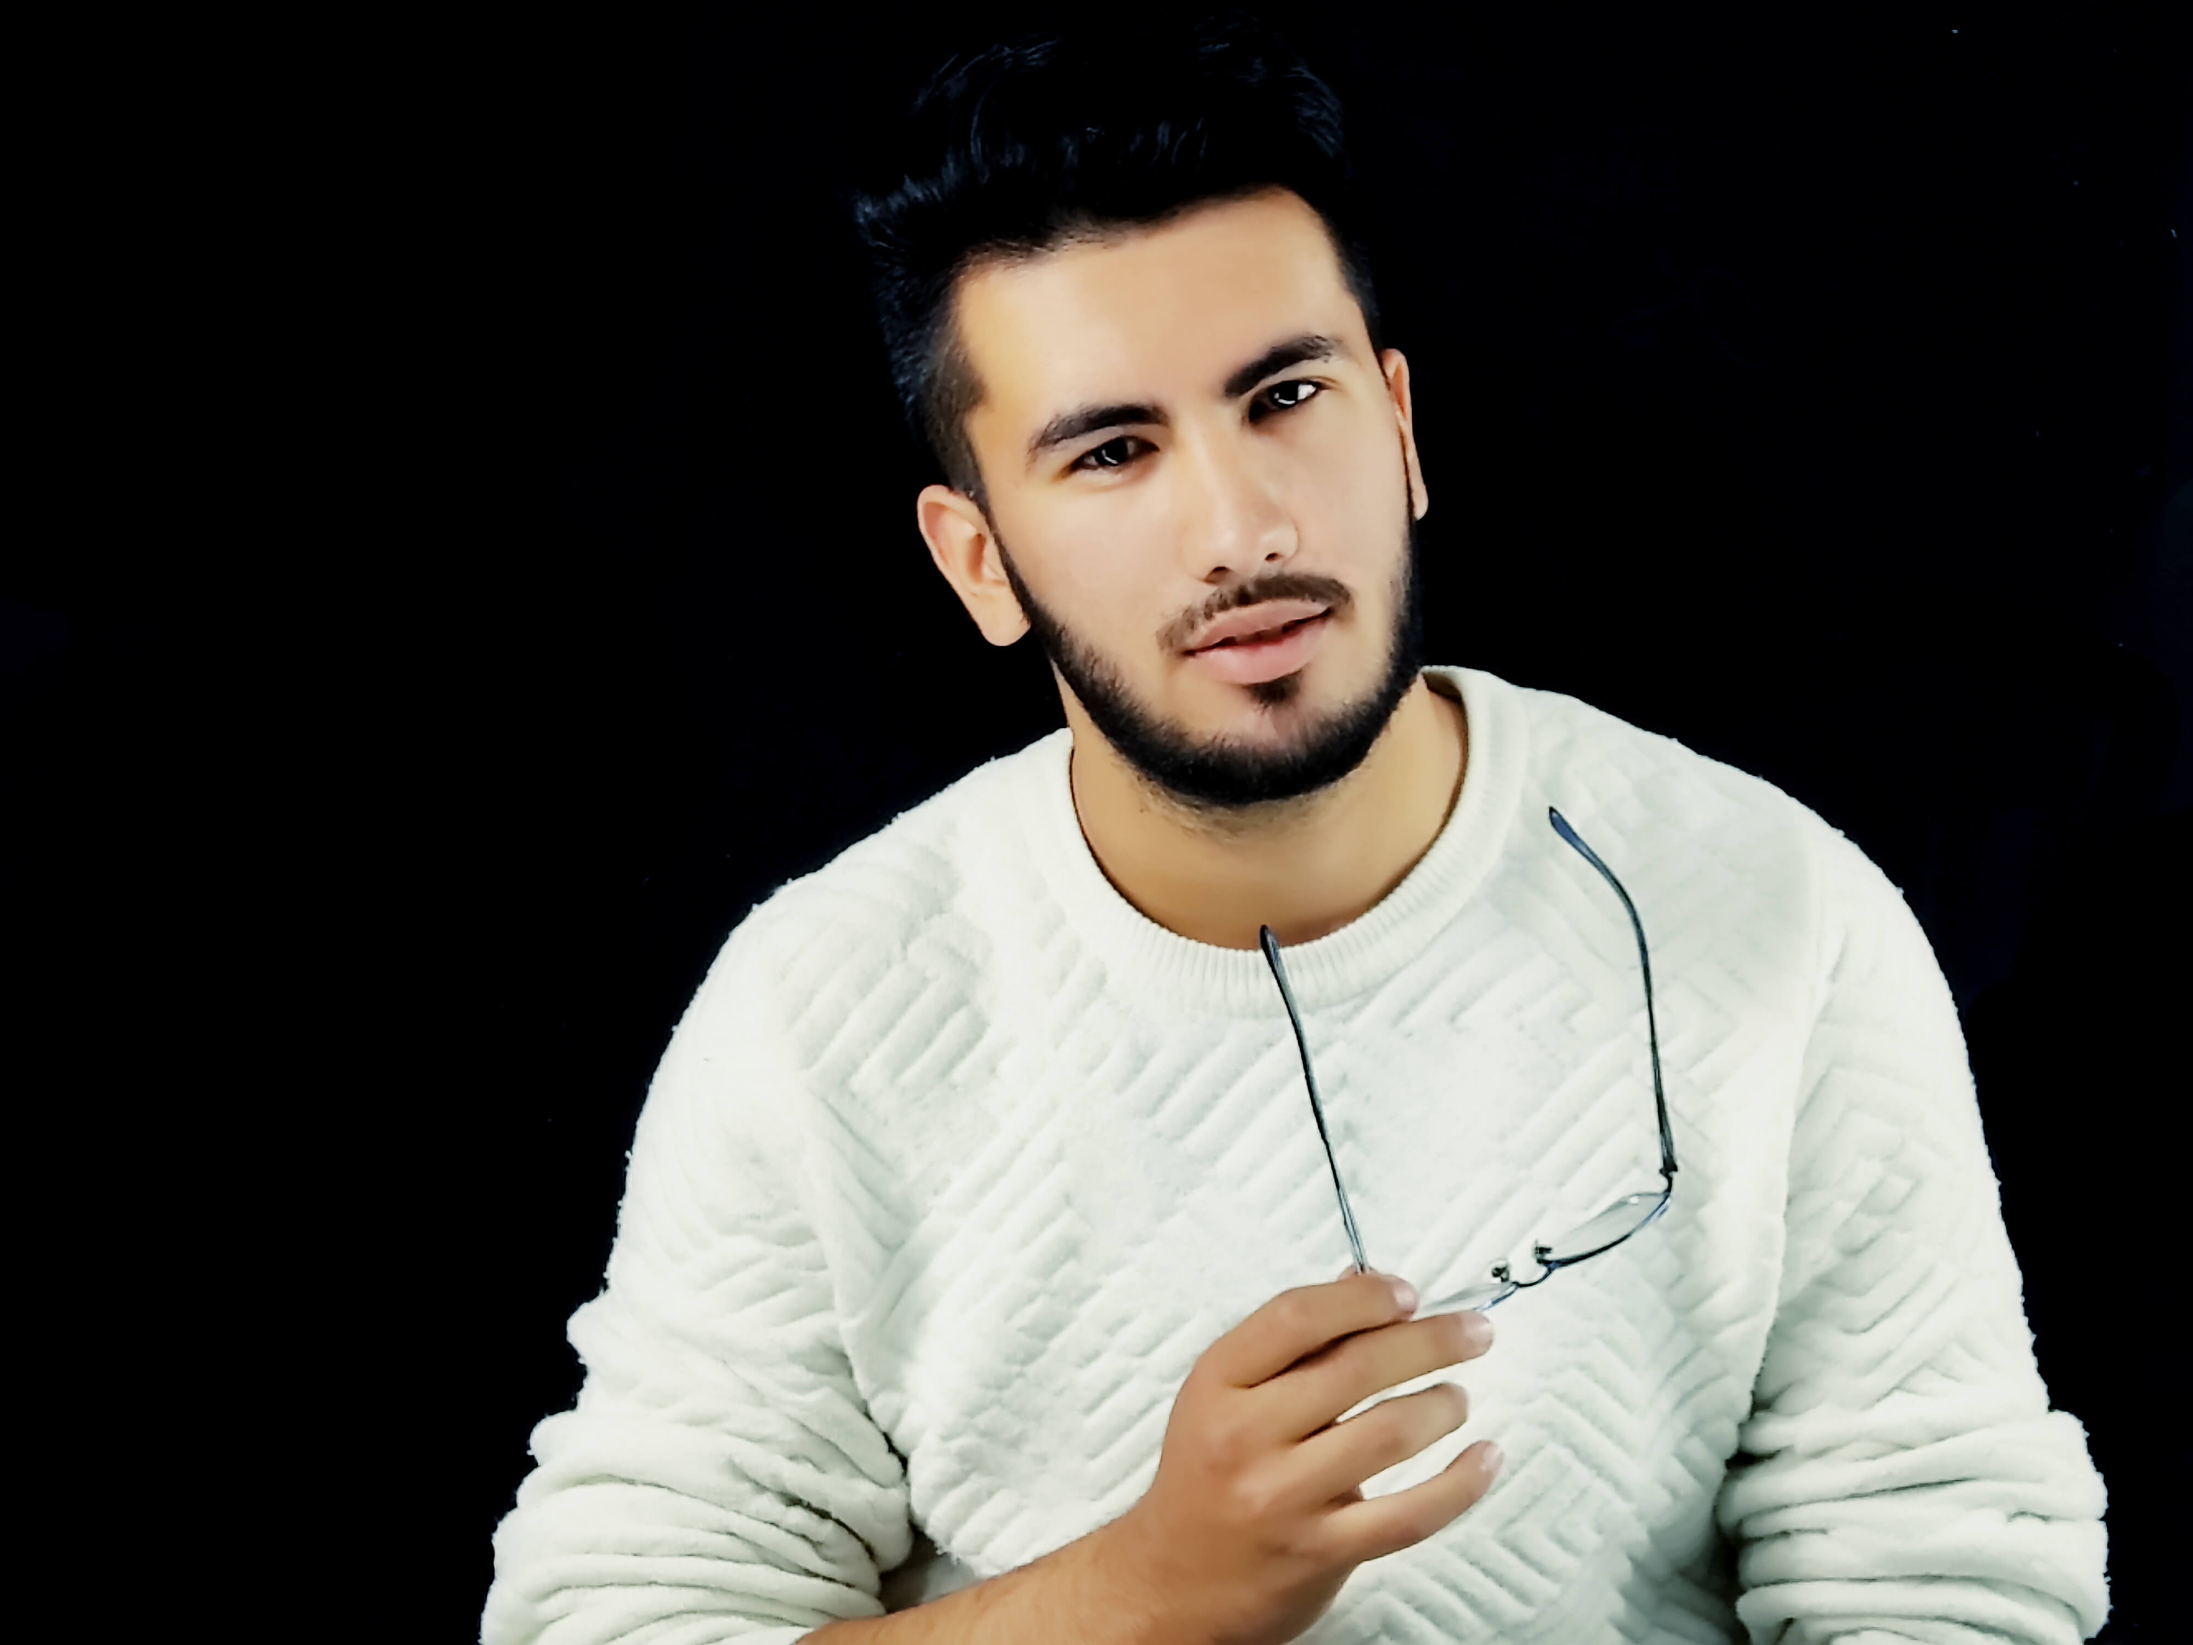
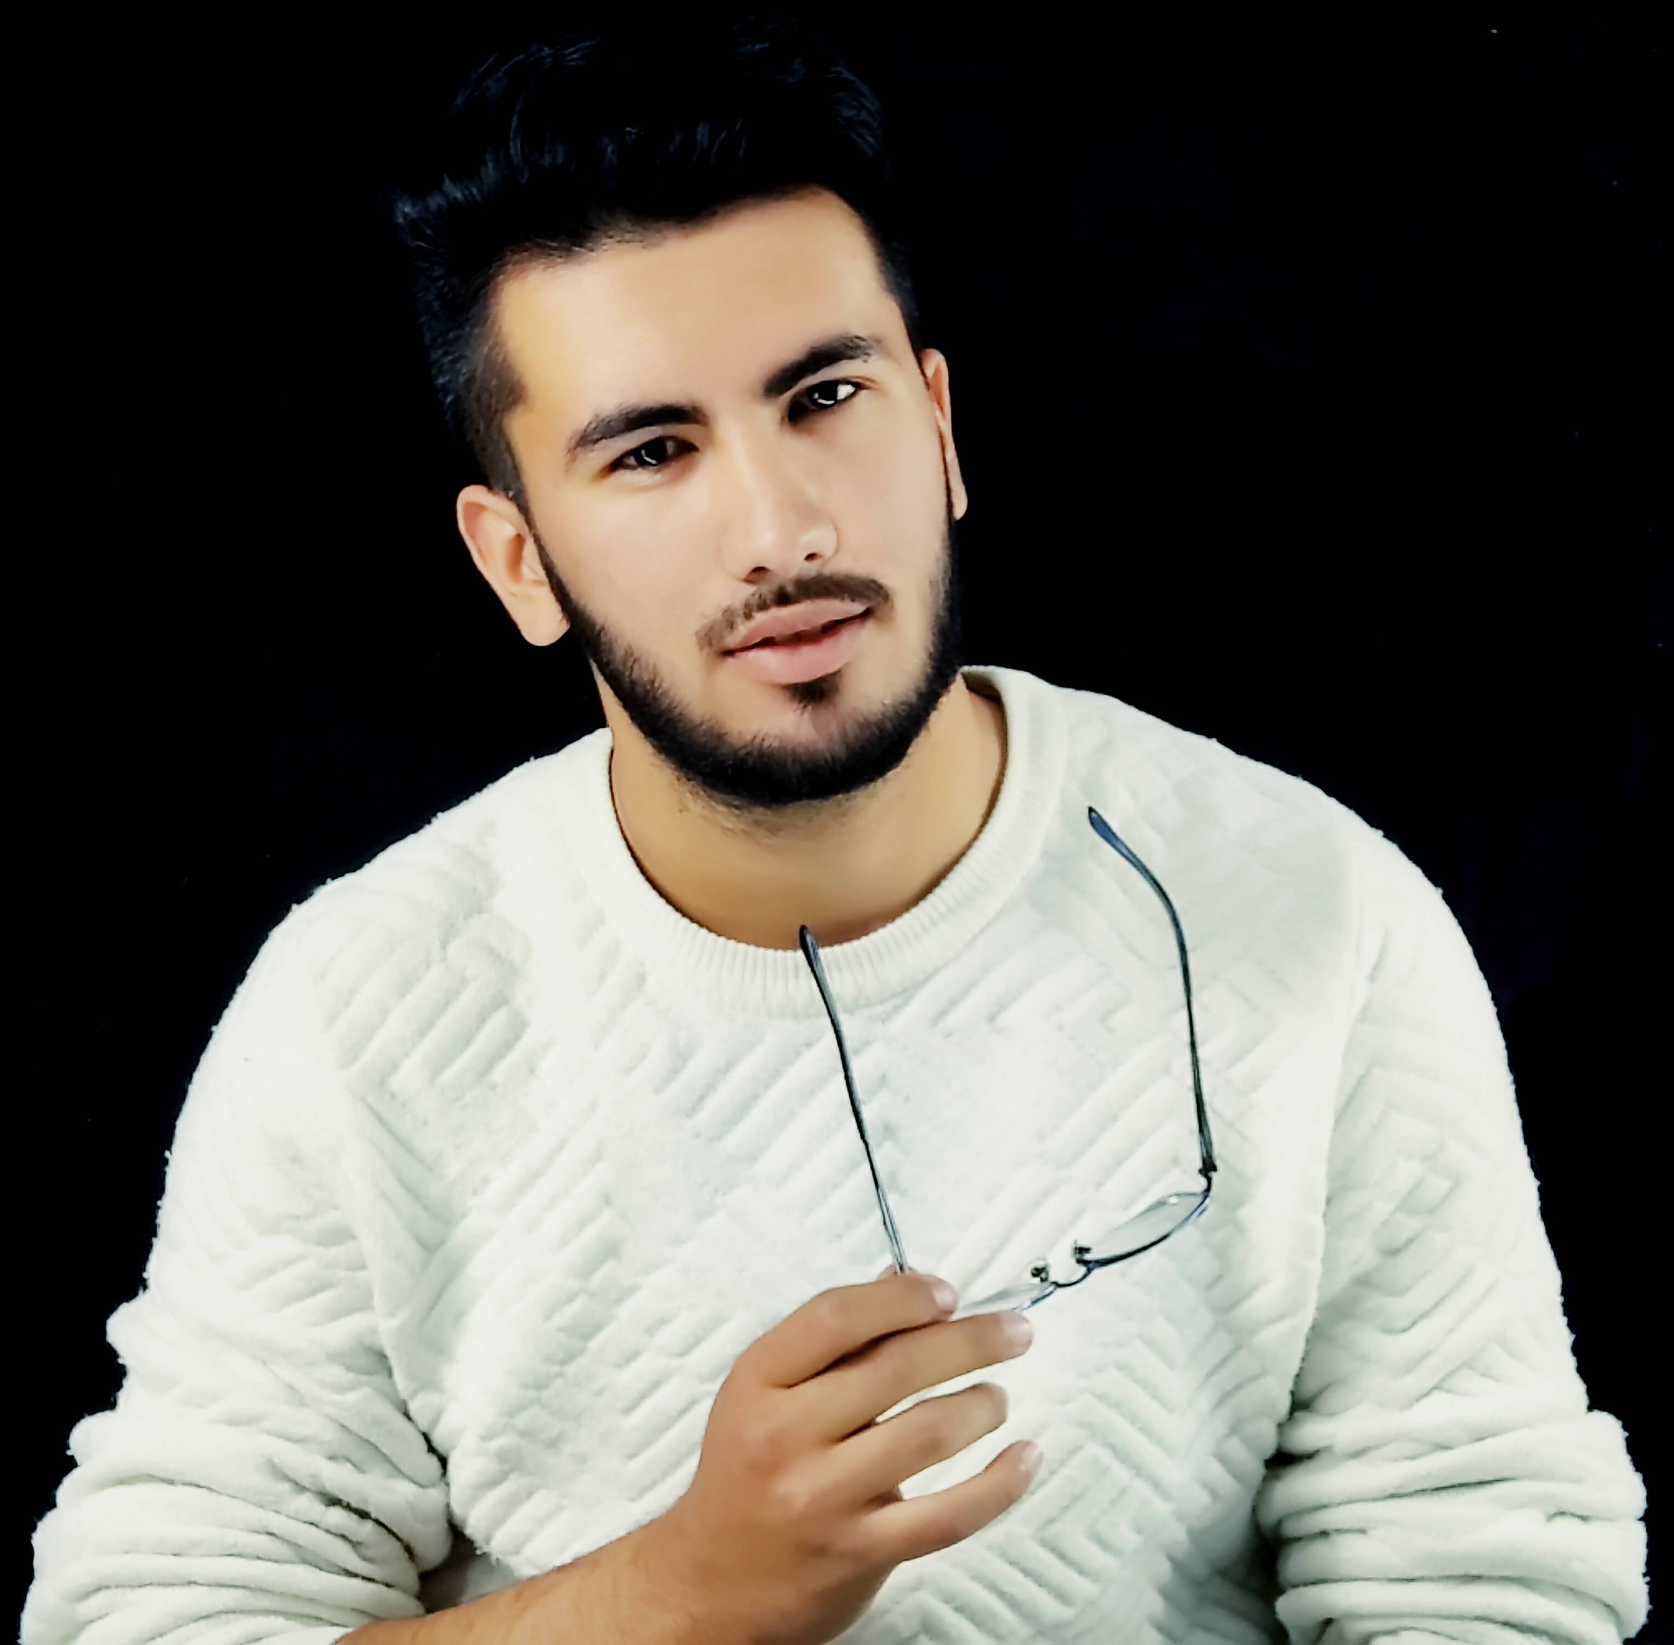
responsive about -section

diff --git a/scss/main.css b/scss/main.css
@@ -515,6 +515,10 @@ h1, h2, h3, h4, h5, h6 {
   background-position-x: -230px;
 }
 
+.about-section__img-content {
+  border-radius: 10px;
+}
+
 .about-section__content {
   display: -webkit-box;
   display: -ms-flexbox;
@@ -560,5 +564,89 @@ h1, h2, h3, h4, h5, h6 {
   transition: -webkit-transform .3s ease;
   transition: transform .3s ease;
   transition: transform .3s ease, -webkit-transform .3s ease;
+}
+
+@media (max-width: 825px) {
+  .about-section {
+    background-position-x: -160px;
+  }
+  .about-section__img-content {
+    width: 400px;
+  }
+}
+
+@media (max-width: 735px) {
+  .about-section__info {
+    font-size: 14px;
+    line-height: 20px;
+  }
+  .about-section__cv-link {
+    margin-top: 15px;
+    padding: 15px 20px;
+  }
+  .about-section__img-content {
+    width: 350px;
+  }
+}
+
+@media (max-width: 647px) {
+  .about-section {
+    background-position-x: -130px;
+  }
+  .about-section__img-content {
+    width: 300px;
+  }
+}
+
+@media (max-width: 520px) {
+  .about-section__content {
+    -webkit-box-orient: vertical;
+    -webkit-box-direction: normal;
+        -ms-flex-direction: column;
+            flex-direction: column;
+    -webkit-box-pack: center;
+        -ms-flex-pack: center;
+            justify-content: center;
+  }
+  .about-section__info-content {
+    font-size: 15px;
+    width: 400px;
+    margin: 0 auto;
+    margin-top: 10px;
+  }
+  .about-section__cv-link {
+    padding: 10px 15px;
+    font-size: 15px;
+    display: block;
+    text-align: center;
+  }
+  .about-section__img-content {
+    width: 250px;
+  }
+}
+
+@media (max-width: 480px) {
+  .about-section {
+    background-position-x: -200px;
+  }
+}
+
+@media (max-width: 432px) {
+  .about-section__info-content {
+    font-size: 13px;
+    width: 300px;
+  }
+  .about-section__img-content {
+    width: 200px;
+  }
+}
+
+@media (max-width: 376px) {
+  .about-section__info-content {
+    width: 250px;
+  }
+  .about-section__img-content {
+    width: 250px;
+  }
 }
 /*# sourceMappingURL=main.css.map */

diff --git a/scss/sections/_about-section.scss b/scss/sections/_about-section.scss
@@ -5,13 +5,18 @@
   background-position: center;
   background-position-y: 0;
   background-position-x: -230px;
-
+  
+  
+  &__img-content{
+    border-radius: 10px;
+  }
+  
   &__content{
     display: flex;
     align-items: center;
     justify-content: space-between;
   }
-
+  
   &__info-content{
     width: 500px;
     margin-left: 30px;
@@ -36,6 +41,100 @@
     &:hover{
       transform: scale(1.1);
       transition: transform .3s ease;
+    }
+  }
+}
+
+// media 
+
+@media (max-width: 825px){
+  .about-section{
+    background-position-x: -160px;
+    &__img-content{
+      width: 400px;
+    }
+  }
+}
+@media (max-width: 735px){
+  .about-section{
+    
+    &__info{
+      font-size: 14px;
+      line-height: 20px;
+    }
+    
+    &__cv-link{
+      margin-top: 15px;
+      padding: 15px 20px;
+    }
+    
+    &__img-content{
+      width: 350px;
+    }
+  }
+}
+@media (max-width: 647px){
+  .about-section{
+    background-position-x: -130px;
+    &__img-content{
+      width: 300px;
+    }
+  }
+}
+@media (max-width: 520px){
+  .about-section{
+    
+    &__content{
+      flex-direction: column;
+      justify-content: center;
+    }
+    
+    &__info-content{
+      font-size: 15px;
+      width: 400px;
+      margin: 0 auto;
+      margin-top: 10px;
+    }
+    
+    &__cv-link{
+      padding: 10px 15px;
+      font-size: 15px;
+      display: block;
+      text-align: center;
+    }
+    
+    &__img-content{
+      width: 250px;
+    }
+  }
+}
+@media (max-width: 480px){
+  .about-section{
+    background-position-x: -200px;
+  }
+}
+@media (max-width: 432px){
+  .about-section{
+    
+    &__info-content{
+      font-size: 13px;
+      width: 300px;
+    }
+    &__img-content{
+      width: 200px;
+    }
+  }
+}
+
+
+@media (max-width: 376px){
+  .about-section{
+    
+    &__info-content{
+      width: 250px;
+    }
+    &__img-content{
+      width: 250px;
     }
   }
 }

diff --git a/index.html b/index.html
@@ -115,7 +115,7 @@
      <section class="about-section">
        <div class="container">
          <div class="about-section__content">
-           <img class="about-section__img-content" src="./img/IMG_2692.JPG" width="564" alt="" >
+           <img class="about-section__img-content" src="./img/IMG_2692.JPG" width="464" alt="" >
            <div class="about-section__info-content">
             <p class="about-section__info">
               An inquisitive Computer Science Engineering student, skilled in leadership, seeking to leverage solid development skills with focus on collaboration, communication and passion.
@@ -128,7 +128,7 @@
        </div>
      </section>
    </main>
-      
+
     
     
     <script src="./js/app.js"></script>
